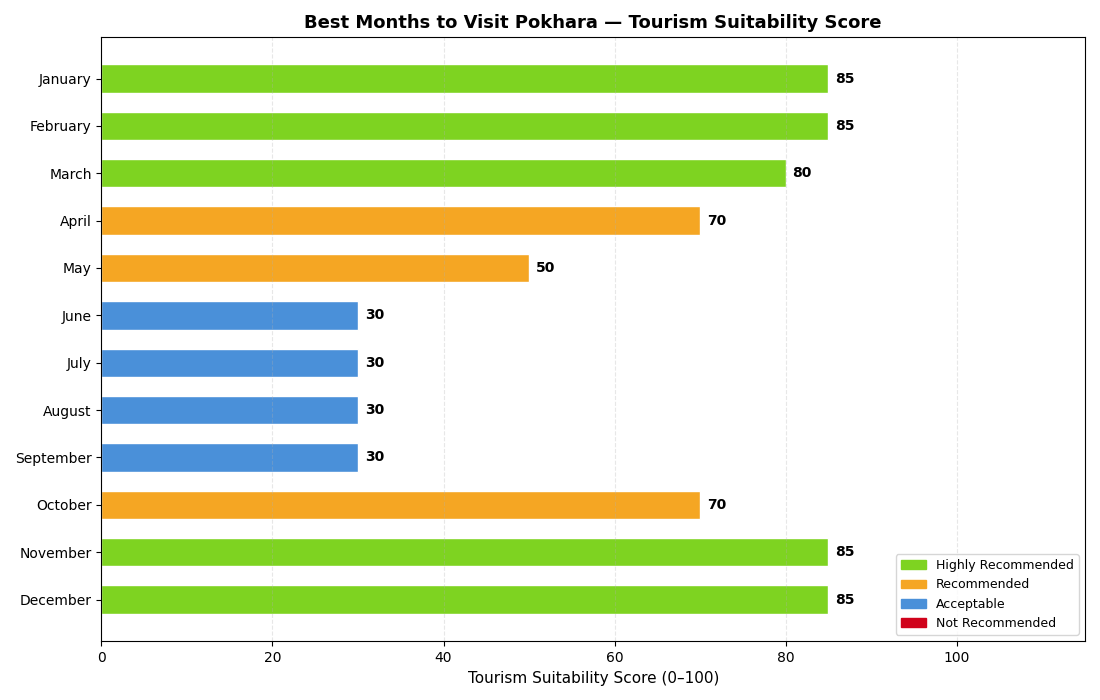
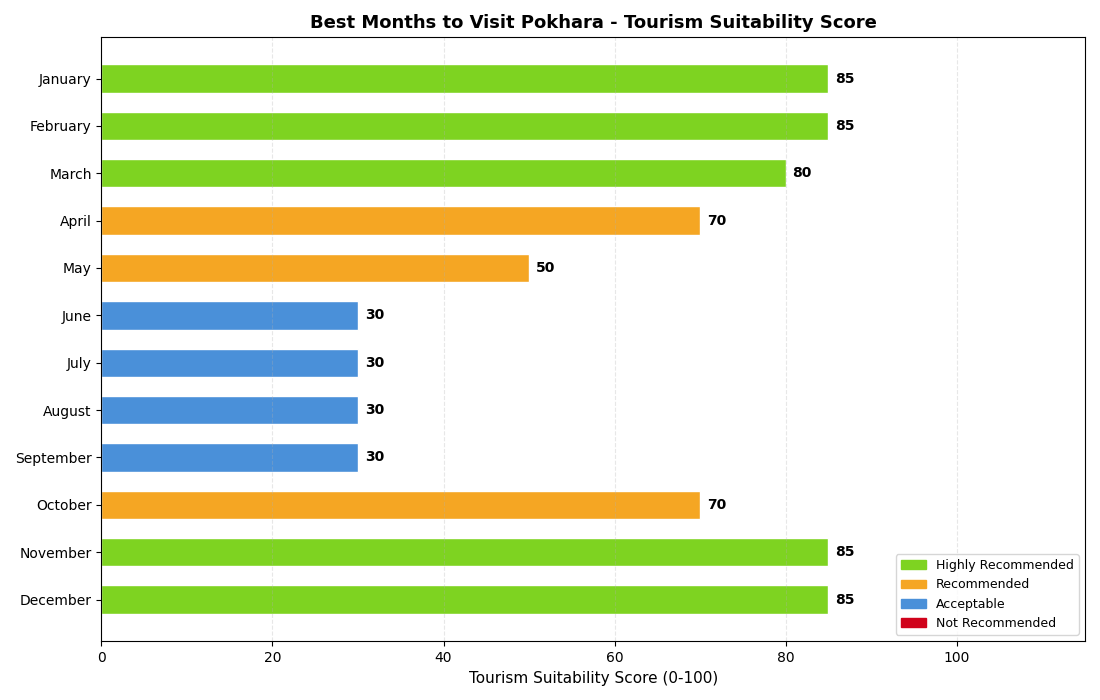
Update: Prediction using API Forecast

Changed region(s): [[0.2782, 0.0, 0.8036, 0.06], [0.4327, 0.96, 0.6491, 0.99]]

diff --git a/Src/analytics/predictive_analysis.py b/Src/analytics/predictive_analysis.py
@@ -10,6 +10,10 @@ class PredictiveAnalytics:
     def __init__(self, db_helper):
         self.db = db_helper
 
+    # ------------------------------------------------------------------ #
+    #  Load Data                                                           #
+    # ------------------------------------------------------------------ #
+
     def load_historical(self):
         cursor = self.db.mydb.cursor(dictionary=True)
         cursor.execute("""
@@ -23,72 +27,145 @@ class PredictiveAnalytics:
         df["avg_temp_c"] = df["avg_temp_c"].astype(float)
         return df
 
-    def plot_temperature_trend(self, df):
-        df = df.copy()
-        df["time_index"] = range(len(df))
+    def load_forecast(self):
+        cursor = self.db.mydb.cursor(dictionary=True)
+        cursor.execute("""
+            SELECT forecast_date, month, avg_temp_c, precip_mm,
+                   precip_probability_pct, weather_description
+            FROM daily_forecast
+            ORDER BY forecast_date
+        """)
+        rows = cursor.fetchall()
+        cursor.close()
+        df = pd.DataFrame(rows)
+        if not df.empty:
+            df["avg_temp_c"] = df["avg_temp_c"].astype(float)
+            df["precip_mm"]  = df["precip_mm"].astype(float)
+            df["precip_probability_pct"] = df["precip_probability_pct"].astype(int)
+            df["forecast_date"] = pd.to_datetime(df["forecast_date"])
+        return df
 
-        X = df["time_index"].values.reshape(-1, 1)
-        y = df["avg_temp_c"].values
+    # ------------------------------------------------------------------ #
+    #  Chart — API Forecast vs Historical Baseline                         #
+    # ------------------------------------------------------------------ #
 
-        # Fit linear regression to get the overall trend direction
-        model = LinearRegression()
-        model.fit(X, y)
-        trend_line = model.predict(X)
+    def plot_forecast_vs_baseline(self, df_hist, df_forecast):
+        # Calculate the long-run monthly average from historical data
+        monthly_avg = df_hist.groupby("month")["avg_temp_c"].mean()
 
-        # Calculate the average temperature for each month (Jan-Dec)
-        monthly_avg = df.groupby("month")["avg_temp_c"].mean()
+        # Map historical baseline onto each forecast day using its month
+        df_forecast = df_forecast.copy()
+        df_forecast["historical_avg"] = df_forecast["month"].map(monthly_avg)
+        df_forecast["anomaly"]        = (df_forecast["avg_temp_c"] - df_forecast["historical_avg"]).round(2)
 
-        # Predict next 24 months using monthly average + trend adjustment
-        last_year       = int(df["year"].iloc[-1])
-        last_month      = int(df["month"].iloc[-1])
-        trend_per_month = model.coef_[0]
-        future_preds    = []
-        future_dates    = []
-        for i in range(1, 25):
-            raw        = last_month + i
-            next_month = ((raw - 1) % 12) + 1
-            next_year  = last_year + (raw - 1) // 12
-            base_avg   = monthly_avg[next_month]
-            predicted  = base_avg + trend_per_month * i
-            future_preds.append(round(predicted, 2))
-            future_dates.append(pd.Timestamp(year=next_year, month=next_month, day=1))
+        fig, axes = plt.subplots(2, 1, figsize=(14, 8))
 
-        # Build historical dates for x-axis
-        hist_dates = pd.to_datetime(df["year"].astype(str) + "-" + df["month"].astype(str).str.zfill(2) + "-01")
+        # --- Top panel: Forecast temp vs historical average ---
+        ax1 = axes[0]
+        ax1.plot(df_forecast["forecast_date"], df_forecast["avg_temp_c"],
+                 color="#D0021B", linewidth=2, marker="o", markersize=5, label="API Forecast Temp")
+        ax1.plot(df_forecast["forecast_date"], df_forecast["historical_avg"],
+                 color="#4A90D9", linewidth=2, linestyle="--", label="15-Year Historical Average")
+        ax1.fill_between(df_forecast["forecast_date"],
+                         df_forecast["historical_avg"], df_forecast["avg_temp_c"],
+                         where=df_forecast["avg_temp_c"] >= df_forecast["historical_avg"],
+                         alpha=0.15, color="#D0021B", label="Above Normal")
+        ax1.fill_between(df_forecast["forecast_date"],
+                         df_forecast["historical_avg"], df_forecast["avg_temp_c"],
+                         where=df_forecast["avg_temp_c"] < df_forecast["historical_avg"],
+                         alpha=0.15, color="#4A90D9", label="Below Normal")
+        ax1.set_title("API Forecast vs 15-Year Historical Baseline - Pokhara", fontsize=13, fontweight="bold")
+        ax1.set_ylabel("Temperature (C)")
+        ax1.legend(fontsize=9)
+        ax1.grid(axis="y", linestyle="--", alpha=0.4)
 
-        # Plot
-        fig, ax = plt.subplots(figsize=(18, 5))
-        ax.plot(hist_dates, y, color="#4A90D9", linewidth=1.2, alpha=0.6, label="Historical Avg Temp")
-        ax.plot(hist_dates, trend_line, color="#F5A623", linewidth=2, linestyle="--", label="Overall Trend")
-        # Connect prediction to last historical point so there's no gap
-        connect_dates = [hist_dates.iloc[-1]] + future_dates
-        connect_preds = [y[-1]] + future_preds
-        ax.plot(connect_dates, connect_preds, color="#D0021B", linewidth=2, linestyle="--", label="Predicted (next 24 months)")
-        ax.axvline(future_dates[0], color="#D0021B", linewidth=1, linestyle=":", alpha=0.5)
-        ax.set_xlim(hist_dates.iloc[0], future_dates[-1] + pd.DateOffset(months=2))
+        # --- Bottom panel: Precipitation probability ---
+        ax2 = axes[1]
+        bar_colors = ["#7ED321" if p < 40 else "#F5A623" if p < 70 else "#D0021B"
+                      for p in df_forecast["precip_probability_pct"]]
+        ax2.bar(df_forecast["forecast_date"], df_forecast["precip_probability_pct"],
+                color=bar_colors, width=0.6)
+        ax2.axhline(70, color="#D0021B", linewidth=1, linestyle="--", alpha=0.6, label="High Risk (70%)")
+        ax2.set_ylabel("Precipitation Probability (%)")
+        ax2.set_xlabel("Date")
+        ax2.set_title("Forecasted Precipitation Probability", fontsize=11, fontweight="bold")
+        ax2.set_ylim(0, 110)
+        ax2.legend(fontsize=9)
+        ax2.grid(axis="y", linestyle="--", alpha=0.4)
 
-        direction = "rising" if model.coef_[0] > 0 else "falling"
-        ax.set_title(f"Temperature Trend & 24-Month Prediction - Pokhara ({direction} trend)", fontsize=13, fontweight="bold")
-        ax.set_xlabel("Date")
-        ax.set_ylabel("Avg Temperature (C)")
-        ax.legend(fontsize=10)
-        ax.grid(axis="y", linestyle="--", alpha=0.4)
         fig.autofmt_xdate()
         plt.tight_layout()
-
-        # Save BEFORE show — calling show() clears the figure
-        ChartSaver.save_analysis_image(fig, "pred_temperature_trend.png")
+        ChartSaver.save_analysis_image(fig, "pred_forecast_vs_baseline.png")
         plt.show()
-        return fig
+        return fig, df_forecast
+
+    # ------------------------------------------------------------------ #
+    #  Print Anomaly Summary                                               #
+    # ------------------------------------------------------------------ #
+
+    def print_forecast_summary(self, df_forecast):
+        if df_forecast.empty:
+            print("  No API forecast data available.")
+            return
+
+        print("\n--- API FORECAST vs HISTORICAL BASELINE ---")
+        print(f"  {'Date':<14} {'Forecast':>10} {'Historical':>12} {'Anomaly':>10} {'Rain%':>7}  Decision")
+        print("  " + "-" * 75)
+
+        for _, row in df_forecast.iterrows():
+            date    = str(row["forecast_date"])[:10]
+            temp    = row["avg_temp_c"]
+            base    = row["historical_avg"]
+            anomaly = row["anomaly"]
+            prob    = row["precip_probability_pct"]
+            desc    = row["weather_description"]
+
+            # Anomaly flag
+            if anomaly > 1.5:
+                anomaly_flag = "WARMER than normal"
+            elif anomaly < -1.5:
+                anomaly_flag = "COOLER than normal"
+            else:
+                anomaly_flag = "Normal range"
+
+            # Decision
+            if prob > 70 or row["precip_mm"] > 10:
+                decision = "Advise trekkers to postpone"
+            elif anomaly > 2:
+                decision = "Heat advisory — early morning activities only"
+            else:
+                decision = "Good conditions for outdoor activities"
+
+            print(f"  {date:<14} {temp:>8.1f}C  {base:>10.1f}C  {anomaly:>+8.1f}C  {prob:>5}%  {decision}")
+            print(f"  {'':14} {desc}")
+
+        # Overall summary
+        avg_anomaly = df_forecast["anomaly"].mean()
+        high_rain_days = (df_forecast["precip_probability_pct"] > 70).sum()
+        print(f"\n  Overall: Forecast is {avg_anomaly:+.1f}C vs historical average")
+        print(f"  High rain risk days: {high_rain_days} out of {len(df_forecast)} forecast days")
+        print()
+
+    # ------------------------------------------------------------------ #
+    #  Run                                                                 #
+    # ------------------------------------------------------------------ #
 
     def run(self):
         print("\n>>> Running Predictive Analytics...")
-        df = self.load_historical()
 
-        if df.empty:
+        df_hist     = self.load_historical()
+        df_forecast = self.load_forecast()
+
+        if df_hist.empty:
             print("No historical data found.")
             return
 
-        self.plot_temperature_trend(df)
+        if df_forecast.empty:
+            print("No API forecast data found.")
+            return
+
+        fig, df_forecast_with_baseline = self.plot_forecast_vs_baseline(df_hist, df_forecast)
+        self.print_forecast_summary(df_forecast_with_baseline)
+
         print(">>> Predictive Analytics complete.\n")
-        return df
+        return df_hist

diff --git a/Src/analytics/prescriptive_analysis.py b/Src/analytics/prescriptive_analysis.py
@@ -26,16 +26,16 @@ class PrescriptiveAnalytics:
         rows = cursor.fetchall()
         cursor.close()
         df = pd.DataFrame(rows)
-        df["avg_temp_c"]      = df["avg_temp_c"].astype(float)
-        df["total_precip_mm"] = df["total_precip_mm"].astype(float)
-        df["avg_humidity_pct"]= df["avg_humidity_pct"].astype(float)
-        df["rainy_days"]      = df["rainy_days"].astype(float)
+        df["avg_temp_c"]       = df["avg_temp_c"].astype(float)
+        df["total_precip_mm"]  = df["total_precip_mm"].astype(float)
+        df["avg_humidity_pct"] = df["avg_humidity_pct"].astype(float)
+        df["rainy_days"]       = df["rainy_days"].astype(float)
         return df
 
     def score_month(self, row):
         score = 0
 
-        # Temperature: 15–25°C is ideal for tourists
+        # Temperature: 15-25 degrees is ideal for tourists
         if 15 <= row["avg_temp_c"] <= 25:
             score += 30
         elif 10 <= row["avg_temp_c"] < 15 or 25 < row["avg_temp_c"] <= 30:
@@ -87,8 +87,8 @@ class PrescriptiveAnalytics:
         ax.bar_label(bars, labels=[f"{v}" for v in df["score"]], padding=5, fontsize=10, fontweight="bold")
 
         ax.set_xlim(0, 115)
-        ax.set_xlabel("Tourism Suitability Score (0–100)", fontsize=11)
-        ax.set_title("Best Months to Visit Pokhara — Tourism Suitability Score", fontsize=13, fontweight="bold")
+        ax.set_xlabel("Tourism Suitability Score (0-100)", fontsize=11)
+        ax.set_title("Best Months to Visit Pokhara - Tourism Suitability Score", fontsize=13, fontweight="bold")
         ax.invert_yaxis()
         ax.grid(axis="x", linestyle="--", alpha=0.3)
 
@@ -111,14 +111,28 @@ class PrescriptiveAnalytics:
         df["score"]          = df.apply(self.score_month, axis=1)
         df["recommendation"] = df["score"].apply(self.get_recommendation)
 
-        print("\n===== PRESCRIPTIVE SUMMARY — Best Months to Visit Pokhara =====")
+        print("\n===== PRESCRIPTIVE SUMMARY - Best Months to Visit Pokhara =====")
         df_sorted = df.sort_values("score", ascending=False)
         for _, row in df_sorted.iterrows():
-            print(f"  {row['month_name']:<12}  Score: {row['score']:>3}  →  {row['recommendation']}")
-        best = df_sorted.iloc[0]
+            print(f"  {row['month_name']:<12}  Score: {row['score']:>3}  ->  {row['recommendation']}")
+
+        best  = df_sorted.iloc[0]
         worst = df_sorted.iloc[-1]
-        print(f"\n  ✅ Best month  : {best['month_name']} (score {best['score']})")
-        print(f"  ❌ Avoid       : {worst['month_name']} (score {worst['score']})")
+        not_recommended = df[df["recommendation"] == "Not Recommended"]["month_name"].tolist()
+        acceptable      = df[df["recommendation"] == "Acceptable"]["month_name"].tolist()
+
+        print(f"\n  Best month  : {best['month_name']} (score {best['score']})")
+        print(f"  Avoid       : {worst['month_name']} (score {worst['score']})")
+
+        print("\n--- DECISIONS & RECOMMENDATIONS ---")
+        if not_recommended:
+            print(f"  Trekking agencies should pause outdoor operations in: {', '.join(not_recommended)}")
+            print(f"  Reason: Heavy monsoon rainfall and poor visibility make these months unsafe for trekking.")
+        if acceptable:
+            print(f"  Hotels and tour operators should offer discounted rates in: {', '.join(acceptable)}")
+            print(f"  Reason: Weather is borderline - discounts can attract budget travellers despite conditions.")
+        print(f"  Peak season staffing should be planned for: {best['month_name']} and surrounding months.")
+        print(f"  Reason: Highest suitability score ({best['score']}/100) - maximum tourist footfall expected.")
         print("=" * 60 + "\n")
 
         self.plot_tourism_score_bar(df)
